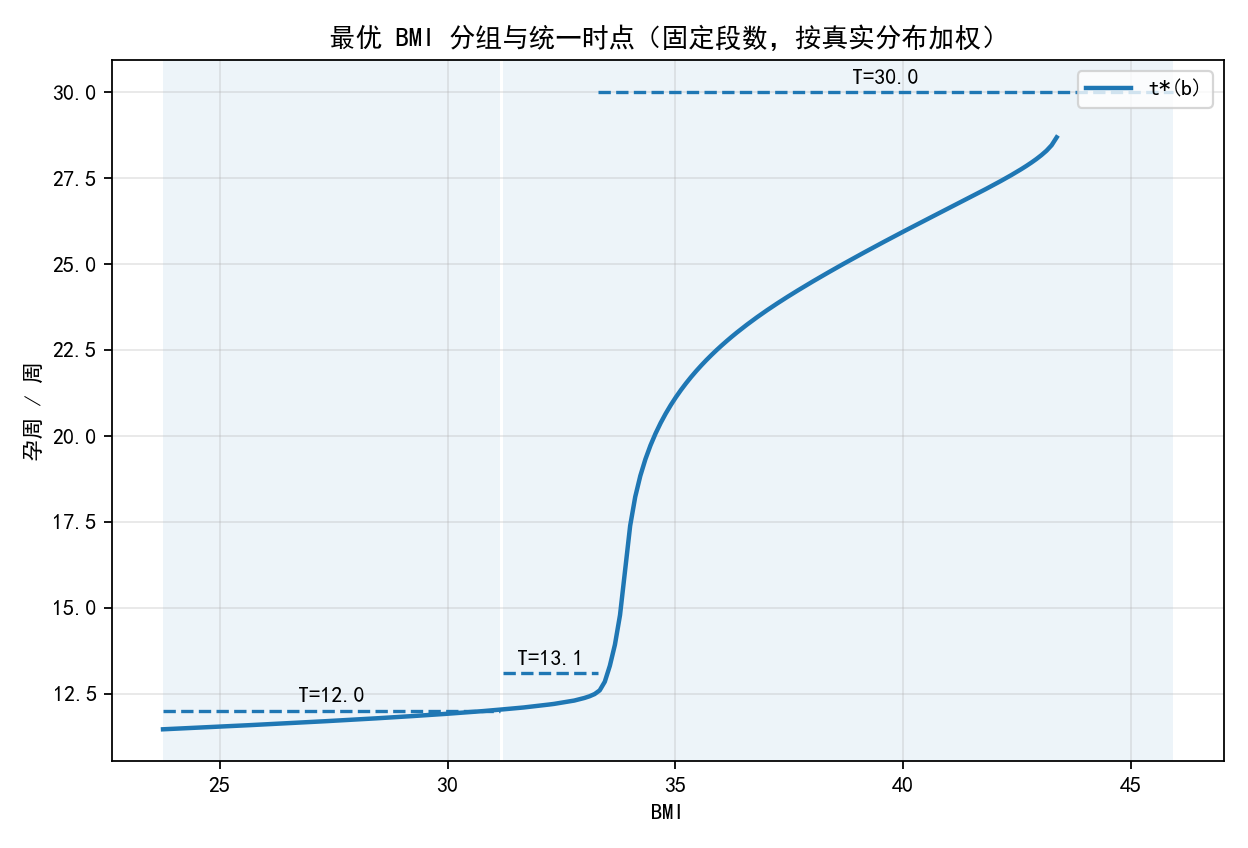
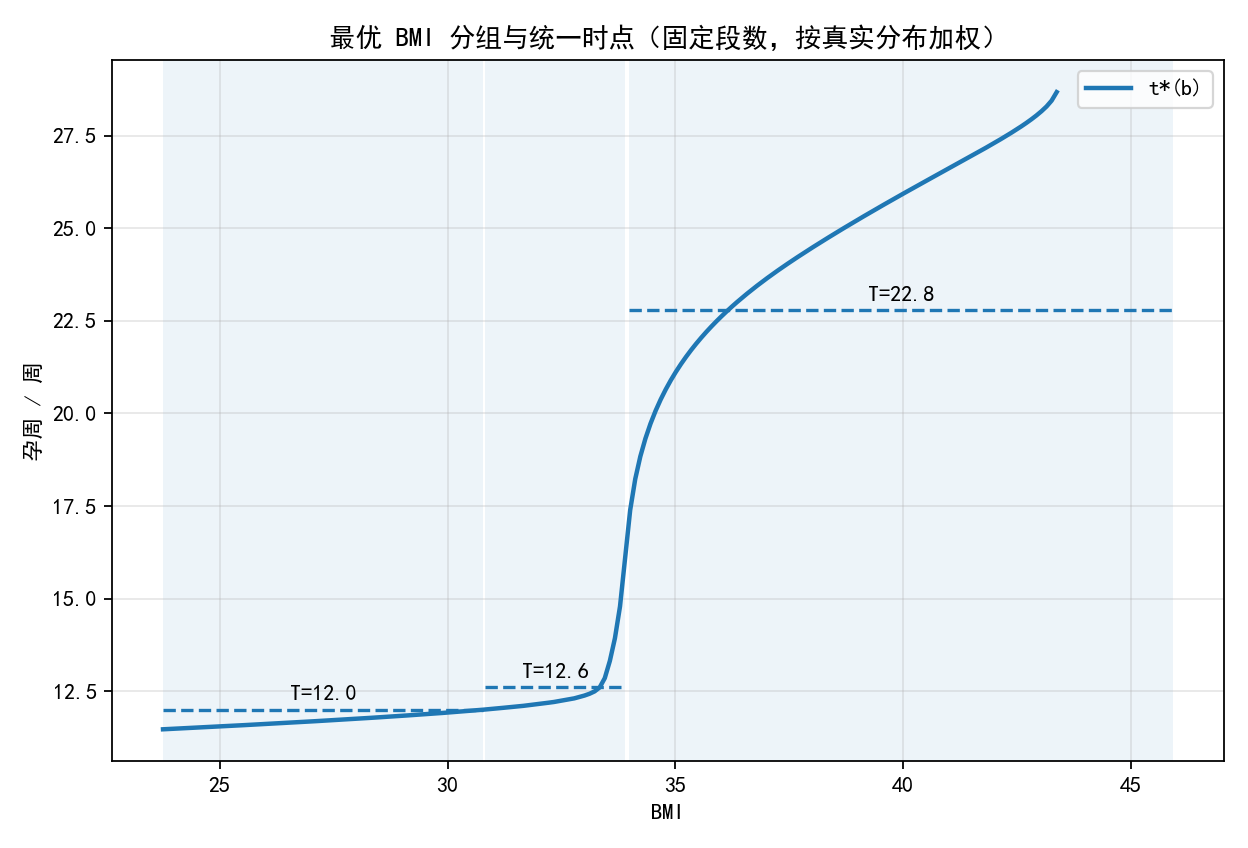
修改Q2的cost，增加等待惩罚

diff --git a/Q2/planB_constrained.py b/Q2/planB_constrained.py
@@ -67,6 +67,9 @@ class CFG:
     OUT_GROUPS_PNG = "groups_on_curve.png"
     OUT_SENS_TG_PNG = "sensitivity_Tg_sigma.png"
 
+    USE_WAIT_PENALTY = True
+    WAIT_PENALTY_PER_WEEK = 1.0   # α，和 RETEST_COST 同量纲
+
 
 # =============== 工具函数 ===============
 def logistic(x): return 1.0 / (1.0 + np.exp(-x))
@@ -117,6 +120,13 @@ def smooth_ma(y, k=5):
         return y
     kernel = np.ones(k) / k
     return np.convolve(y, kernel, mode="same")
+
+def precompute_tstar0(predictor, bmi, t_min, thr, conf, sigma_m, t_support_min=None):
+    return np.array([
+        first_hit_time_for_b(predictor, float(b), t_min, CFG.T_MAX,
+                             thr, conf, sigma_m, t_support_min=t_support_min, step=CFG.STEP)
+        for b in bmi
+    ], dtype=float)
 
 
 # =============== 直接用第一问的 GAMM 预测器 ===============
@@ -262,17 +272,33 @@ def load_empirical_bmi(excel_path, sheet_name, col_id, col_bmi,
 
 
 # =============== 段成本（最原始：不加任何波动惩罚） ===============
-def precompute_loss_matrix(pred, bmi, Tcand, thr, conf, sigma_m, cost, t_support_min=None, w=None):
+def precompute_loss_matrix(pred, bmi, Tcand, thr, conf, sigma_m, cost, t_support_min=None, w=None, tstar0=None):
+    # 要求传入 tstar0 = precompute_tstar0(...)
     n, m = len(bmi), len(Tcand)
+    if tstar0 is None:
+        raise ValueError("precompute_loss_matrix 需要 tstar0")
     L = np.zeros((n, m))
-    for i, b in enumerate(bmi):
+    for i, t0 in enumerate(tstar0):
         for j, T in enumerate(Tcand):
-            L[i, j] = individual_loss(
-                pred, b, T, thr, conf, sigma_m, cost, t_support_min=t_support_min
-            )
+            # 复检：当 T < t*(b)
+            gap = max(0.0, t0 - T)
+            n_retests = int(np.ceil(gap / CFG.VISIT_INTERVAL))
+            n_retests = min(n_retests, CFG.MAX_RETESTS)
+            retest_cost = n_retests * cost
+
+            # 检出时刻与风险
+            t_hit = T if T >= t0 else t0
+            risk = piecewise_risk(t_hit)
+
+            # 等待罚：当 T > t*(b)
+            wait_pen = CFG.WAIT_PENALTY_PER_WEEK * max(0.0, T - t0) if CFG.USE_WAIT_PENALTY else 0.0
+
+            L[i, j] = CFG.FIRST_VISIT_COST + retest_cost + risk + wait_pen
+
     if w is not None:
-        L = (L.T * np.asarray(w, float)).T  # 行乘权重
+        L = (L.T * np.asarray(w, float)).T
     return L
+
 
 def build_segment_costs(L):
     """
@@ -319,6 +345,56 @@ def dp_optimal_partition(C, K, min_seg):
         j = i
     return segs[::-1]
 
+def eval_schedule(predictor, bmi, w_row, segments, T_candidates, argT,
+                  thr, conf, sigma_m, t_support_min=None):
+    def hit_time(b, T):
+        return expected_hit_time(predictor, b, T, thr, conf, sigma_m, t_support_min=t_support_min)
+
+    out = []
+    w_all = 0.0; cov_all = ret_rate_all = nrt_all = 0.0
+    risk_all = 0.0; late_all = 0.0; tbar_w = 0.0
+
+    for g, (i, j) in enumerate(segments, start=1):
+        T = float(T_candidates[argT[i, j]])
+        bs = bmi[i:j]; ws = w_row[i:j]
+        t_hit = np.array([hit_time(b, T) for b in bs])
+        need = (t_hit > T).astype(float)
+        nret = np.ceil(np.maximum(0.0, t_hit - T) / CFG.VISIT_INTERVAL)
+        nret = np.minimum(nret, CFG.MAX_RETESTS)
+        risk = np.array([piecewise_risk(t) for t in t_hit])
+
+        w = ws.sum()
+        cov = np.average(1 - need, weights=ws)                  # 首检覆盖率
+        ret_rate = np.average(need, weights=ws)                 # 复检率
+        nret_mean = np.average(nret, weights=ws)                # 人均复检次数
+        t_mean = np.average(t_hit, weights=ws)                  # 平均检出周
+        late = np.average((t_hit >= 28).astype(float), weights=ws)  # 晚期占比
+        risk_mean = np.average(risk, weights=ws)                # 期望风险
+        cost_mean = nret_mean * CFG.RETEST_COST + risk_mean     # 总成本（可选）
+
+        out.append({
+            "group": g, "T_g": T, "bmi_min": float(bs[0]), "bmi_max": float(bs[-1]),
+            "coverage": float(cov), "retest_rate": float(ret_rate),
+            "mean_retests": float(nret_mean), "mean_detect_week": float(t_mean),
+            "late_share": float(late), "exp_risk": float(risk_mean),
+            "exp_total_cost": float(cost_mean), "n_weight": float(w)
+        })
+
+        # overall (weighted by ws)
+        w_all += w
+        cov_all += cov * w; ret_rate_all += ret_rate * w; nrt_all += nret_mean * w
+        risk_all += risk_mean * w; late_all += late * w; tbar_w += t_mean * w
+
+    overall = {
+        "coverage": cov_all / w_all,
+        "retest_rate": ret_rate_all / w_all,
+        "mean_retests": nrt_all / w_all,
+        "mean_detect_week": tbar_w / w_all,
+        "late_share": late_all / w_all,
+        "exp_risk": risk_all / w_all
+    }
+    return pd.DataFrame(out), overall
+
 
 # =============== 主流程 ===============
 def main():
@@ -363,14 +439,24 @@ def main():
     CFG.MIN_SEG_SIZE = max(5, int(0.10 * len(bmi)))
 
     # 3) 段成本矩阵 & DP（固定段数）
-    L = precompute_loss_matrix(
-        predictor, bmi, T_candidates,
-        CFG.THRESHOLD, CFG.CONF_LEVEL, CFG.SIGMA_M, CFG.RETEST_COST,
-        t_support_min=t_support_min, w=w_row
-    )
+    tstar0 = precompute_tstar0(predictor, bmi, t_min, CFG.THRESHOLD, CFG.CONF_LEVEL,
+                           CFG.SIGMA_M, t_support_min=t_support_min)
+
+    L = precompute_loss_matrix(predictor, bmi, T_candidates, CFG.THRESHOLD,
+                            CFG.CONF_LEVEL, CFG.SIGMA_M, CFG.RETEST_COST,
+                            t_support_min=t_support_min, w=w_row, tstar0=tstar0)
+
     C, argT = build_segment_costs(L)
     segments = dp_optimal_partition(C, CFG.N_GROUPS, CFG.MIN_SEG_SIZE)
     best_Ts = [float(T_candidates[argT[i, j]]) for (i, j) in segments]
+
+    group_eval, overall = eval_schedule(
+        predictor, bmi, w_row, segments, T_candidates, argT,
+        CFG.THRESHOLD, CFG.CONF_LEVEL, CFG.SIGMA_M, t_support_min=t_support_min
+    )
+    group_eval.to_csv("group_eval.csv", index=False, encoding="utf-8-sig")
+    print("总体指标：", overall)
+
 
     # 4) 导出分组摘要
     rows = []
@@ -432,10 +518,12 @@ def main():
     # 7) 图3：敏感性（不同 sigma_m 下的 T_g；仍按真实分布权重）
     Tg_by_sigma = []
     for s in CFG.SIGMA_M_LIST:
+        tstar0 = precompute_tstar0(predictor, bmi, t_min, CFG.THRESHOLD, CFG.CONF_LEVEL,
+                                    s, t_support_min=t_support_min)
         Ls = precompute_loss_matrix(
             predictor, bmi, T_candidates,
             CFG.THRESHOLD, CFG.CONF_LEVEL, s, CFG.RETEST_COST,
-            t_support_min=t_support_min, w=w_row
+            t_support_min=t_support_min, w=w_row, tstar0=tstar0
         )
         Cs, argTs = build_segment_costs(Ls)
         segs_s = dp_optimal_partition(Cs, CFG.N_GROUPS, CFG.MIN_SEG_SIZE)

diff --git a/Q1/gamm_mixedlm_B.py b/Q1/gamm_mixedlm_B.py
@@ -255,7 +255,10 @@ def main(
     labels = []
     for name, p in coef_df["p"].items():
         star = "***" if p < 0.001 else "**" if p < 0.01 else "*" if p < 0.05 else ""
-        labels.append(f"{name} {star}")
+        if name == "BMI":
+            labels.append(f"γ {star}")
+        else:
+            labels.append(f"θ{name[1]} {star}")
     plt.yticks(y_pos, labels)
     plt.xlabel("系数（logit 空间）")
     title = "固定效应系数与95%CI（MixedLM）"
